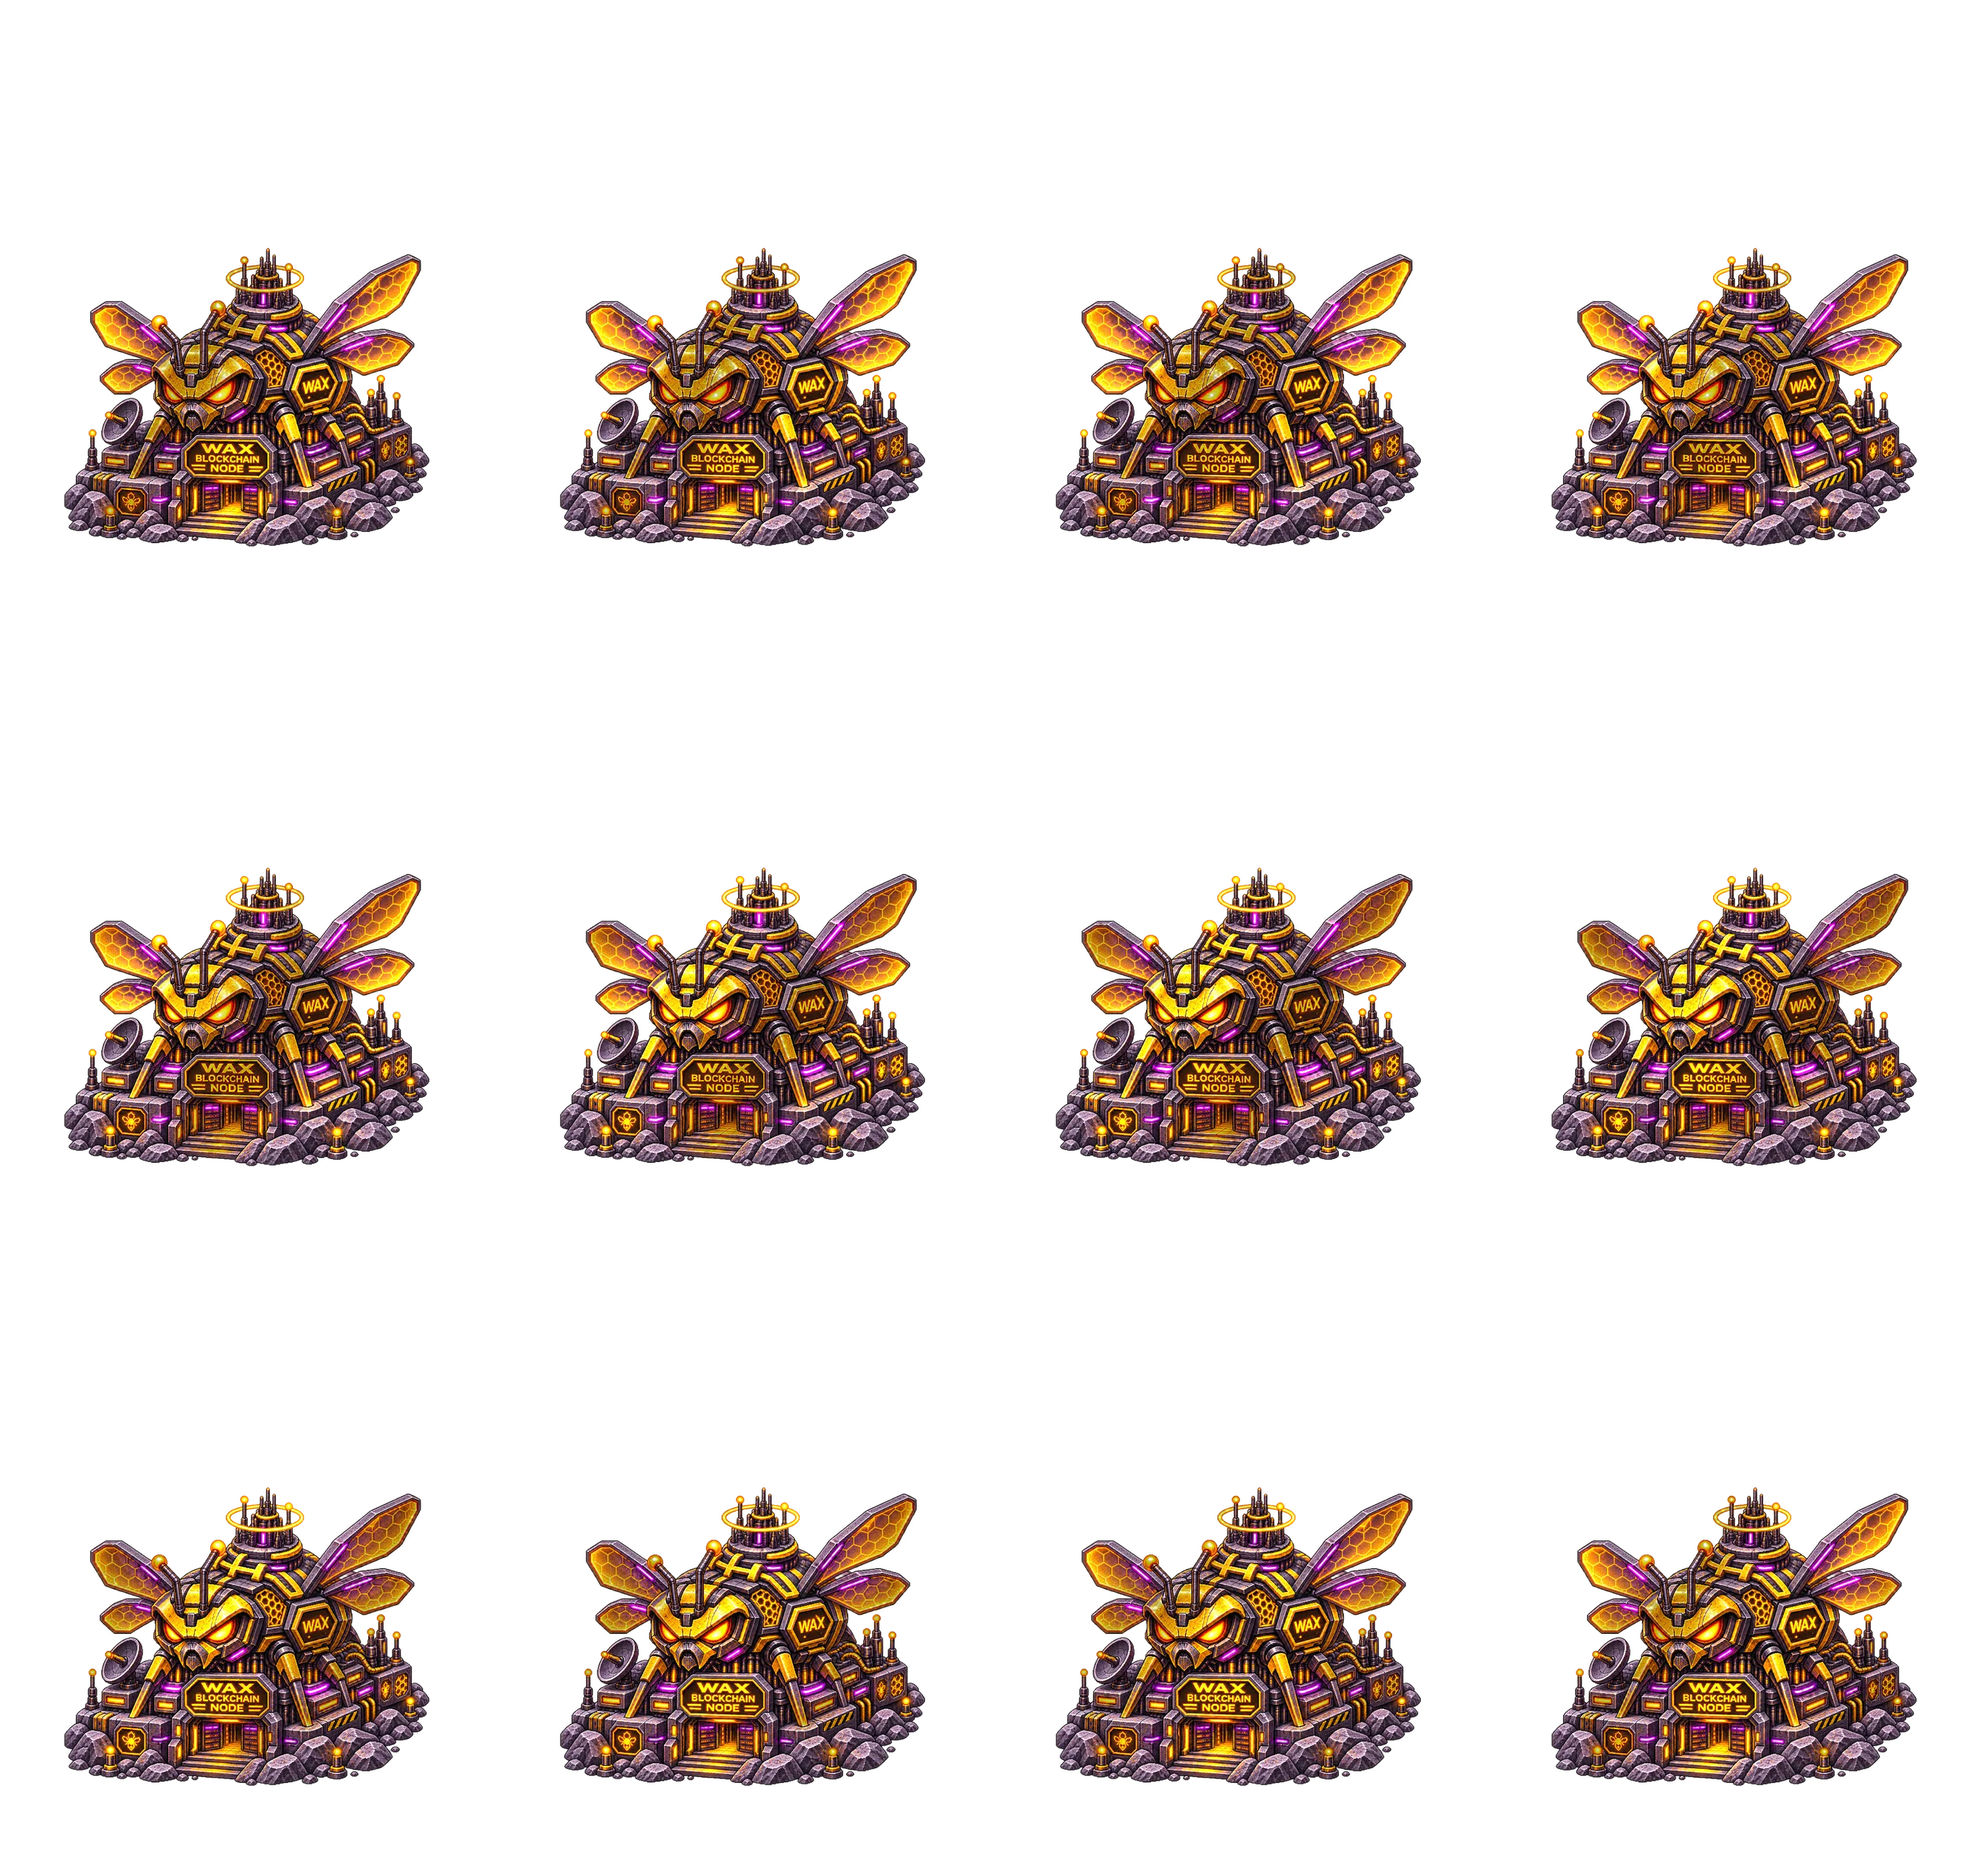
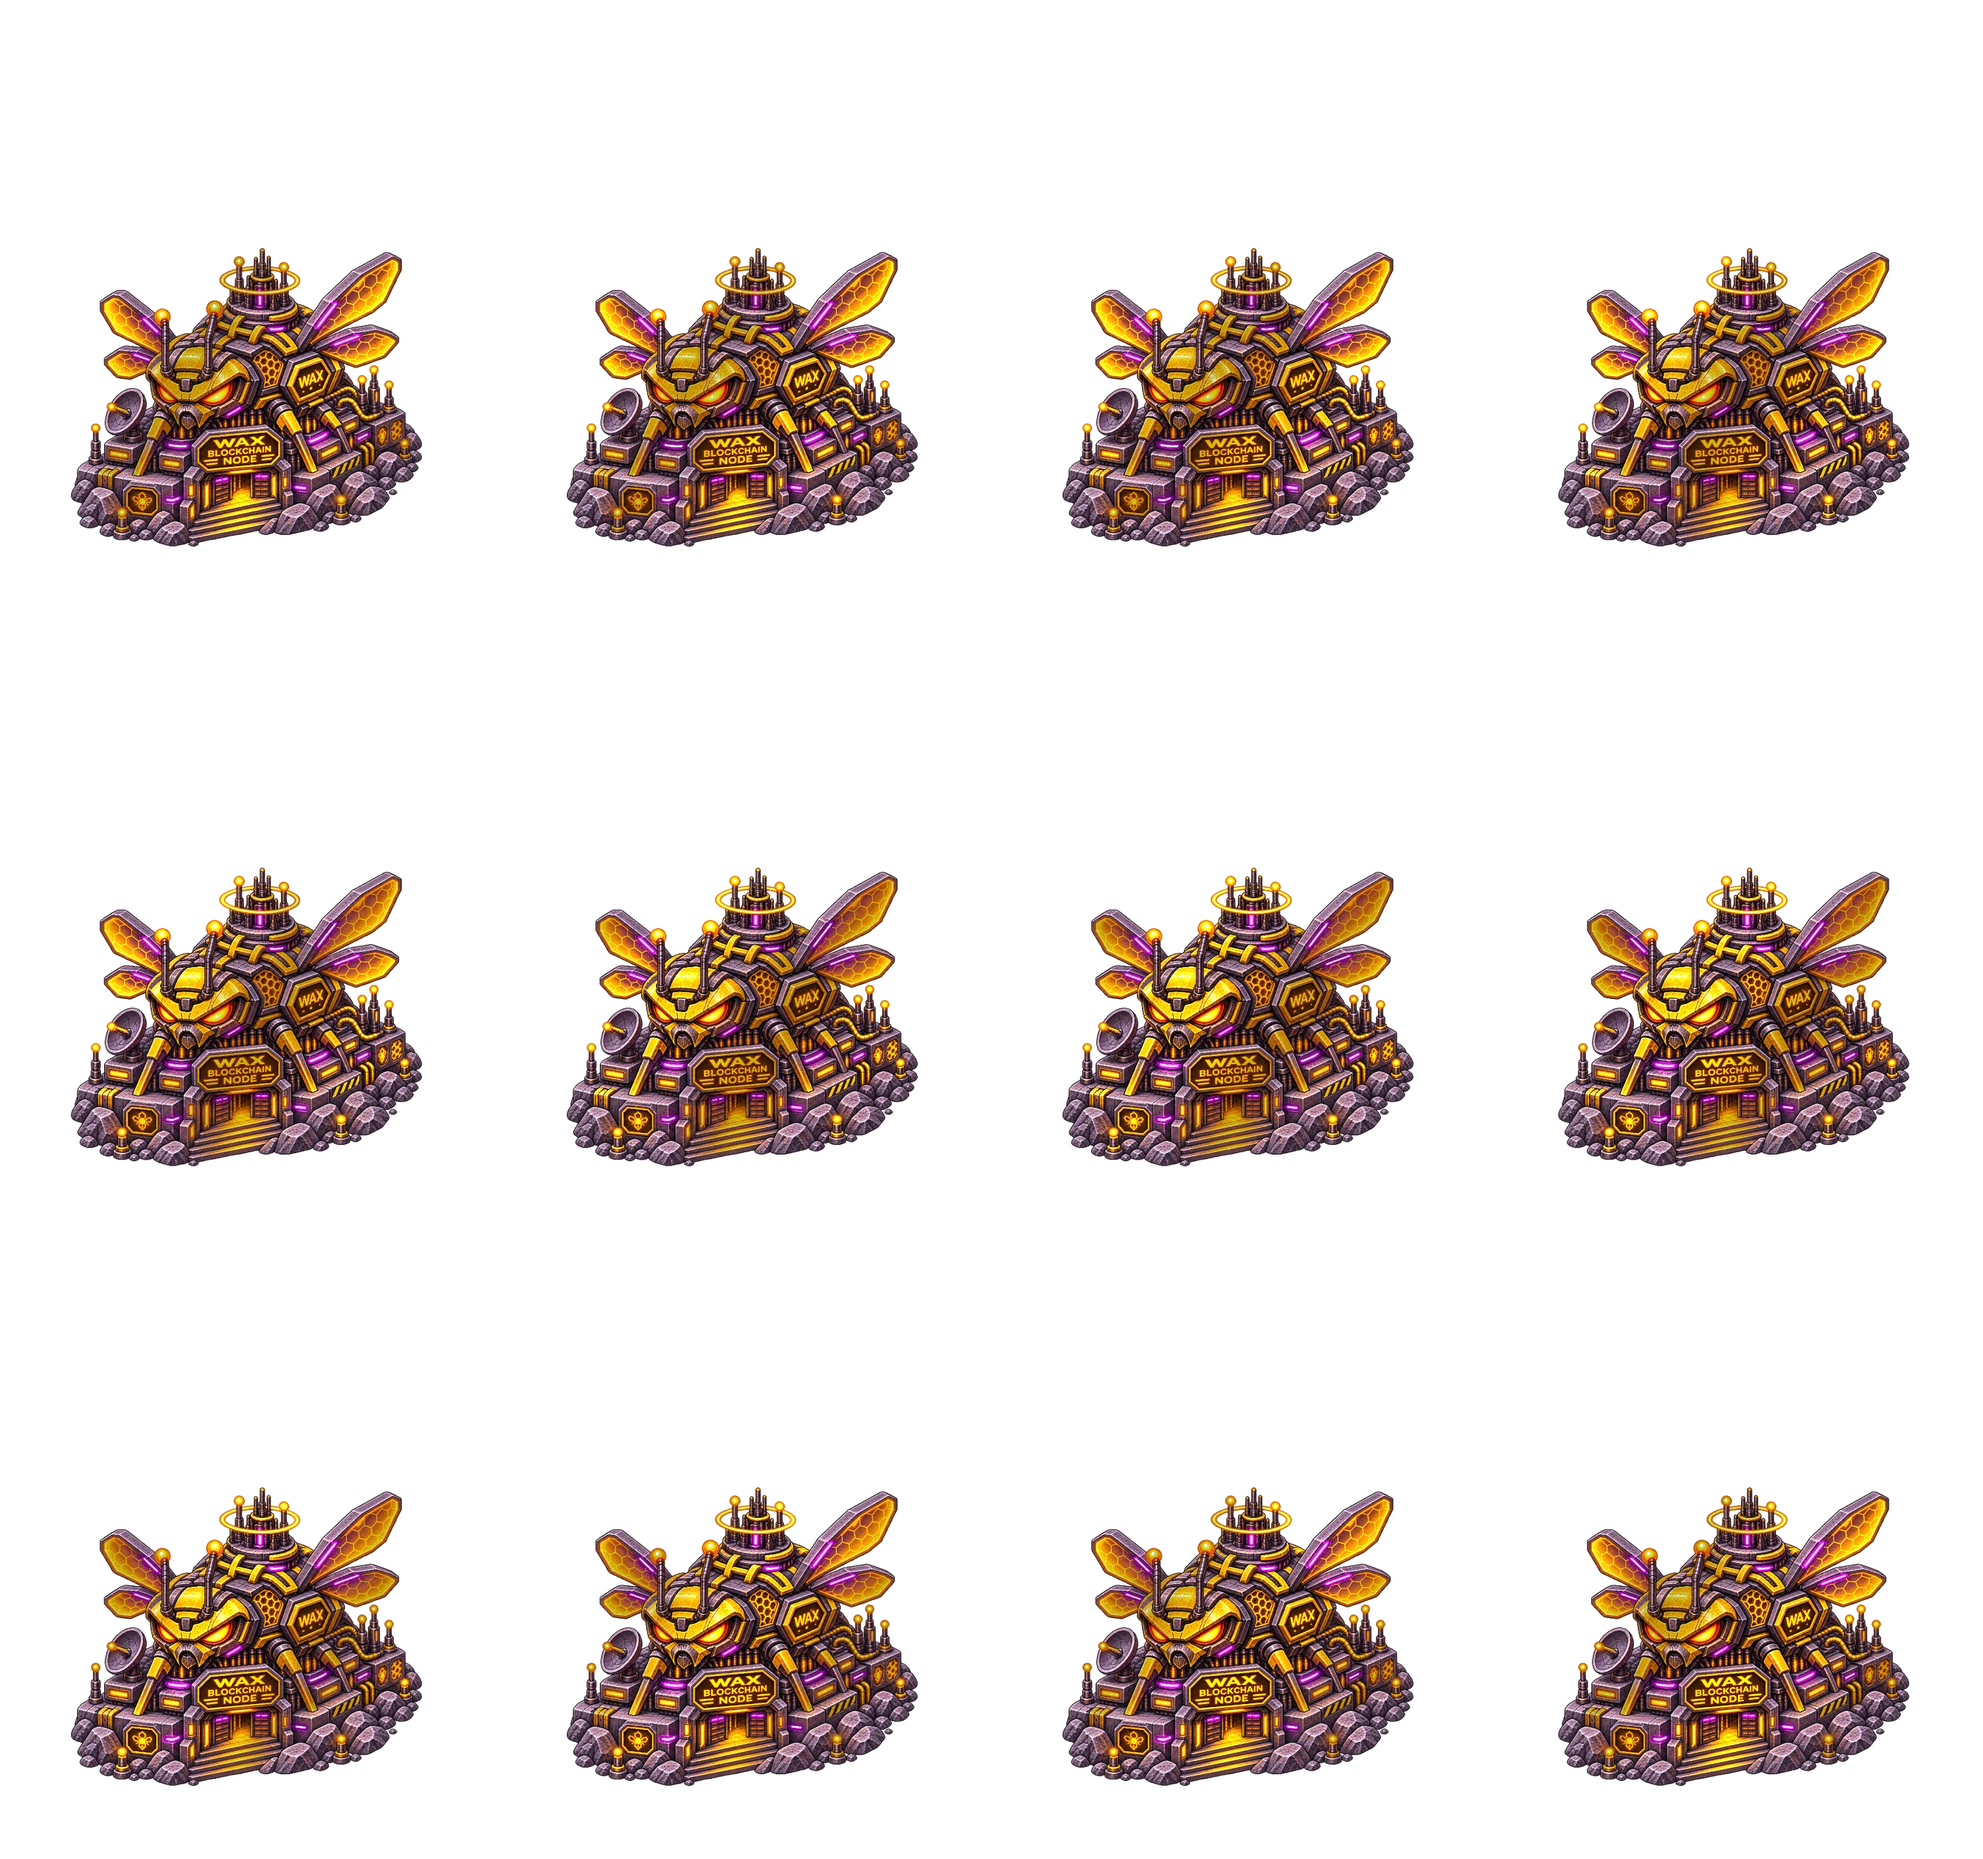
Align the WAX Bee Node sprite with the tilted Moon grid

diff --git a/games/block-topia/hodl-wars-lores/game.js b/games/block-topia/hodl-wars-lores/game.js
@@ -16,7 +16,7 @@ detailedSprite.src = '../waterfront/assets/atlases/factions-detail.webp';
 const detailCell = 192;
 const miningBuildings = miningSites.map(site => {
   const image = new Image();
-  image.src = './assets/' + site.file + '?v=2-detail';
+  image.src = './assets/' + site.file + (site.file === 'wax-bee.webp' ? '?view=moon-grid&v=2-detail' : '?v=2-detail');
   return { scale: .625, ...site, image };
 });
 const fortressFrame = { width: 224, height: 280, columns: 4, count: 12, fps: 12 };

diff --git a/games/block-topia/test-builds/compare/moon/index.html b/games/block-topia/test-builds/compare/moon/index.html
@@ -8,7 +8,7 @@
   <meta name="robots" content="noindex, follow">
   <title>HODL Wars Lores · Block Topia Map Comparison</title>
   <link rel="stylesheet" href="/games/block-topia/test-builds/compare/comparison.css">
-  <script type="module" src="/games/block-topia/test-builds/compare/comparison.mjs?v=6"></script>
+  <script type="module" src="/games/block-topia/test-builds/compare/comparison.mjs?v=7"></script>
 </head>
 <body data-map="moon">
 <main>

diff --git a/games/block-topia/hodl-wars-lores/index.html b/games/block-topia/hodl-wars-lores/index.html
@@ -9,7 +9,7 @@
   <link rel="canonical" href="https://cryptomoonboys.com/games/block-topia/hodl-wars-lores/">
   <link rel="icon" href="/favicon.png">
   <link rel="stylesheet" href="./game.css">
-  <script type="module" src="./game.js?v=8"></script>
+  <script type="module" src="./game.js?v=9"></script>
 </head>
 <body>
   <main id="game">

diff --git a/games/block-topia/AGENTS.md b/games/block-topia/AGENTS.md
@@ -14,5 +14,5 @@ GK approved the placement, camera angles, in-world scale, and close-zoom art for
 
 - Keep the original projections, camera framing and zoom behavior for each map, along with its ground anchors and depth order.
 - Keep the tall Bitcoin Cash silhouette and its 1.7× draw scale relative to the standard miners. Its rear placement gives the skyline room while keeping the main routes clear.
-- Use the appropriate isometric, overhead, or tilted Moon atlas. The approved miner sheets have twelve transparent 672 × 840 frames in four columns by three rows. Keep the 12 fps loop, stationary foundation, reduced-motion first frame, and high-quality sampling for the miners at close zoom.
+- Use the appropriate isometric, overhead, or tilted Moon atlas. On both Moon views, use the corrected WAX Bee sprite with its entry and base aligned to the sloping Moon grid. The approved miner sheets have twelve transparent 672 × 840 frames in four columns by three rows. Keep the 12 fps loop, stationary foundation, reduced-motion first frame, and high-quality sampling for the miners at close zoom.
 - When changing relevant assets or rendering, check the affected views at overview and close zoom. Verify readable signage, a stable rock base, the tower’s height and silhouette, and landmark inspection where supported. If an edit affects the shared renderer or an atlas used by multiple routes, check each affected view.
